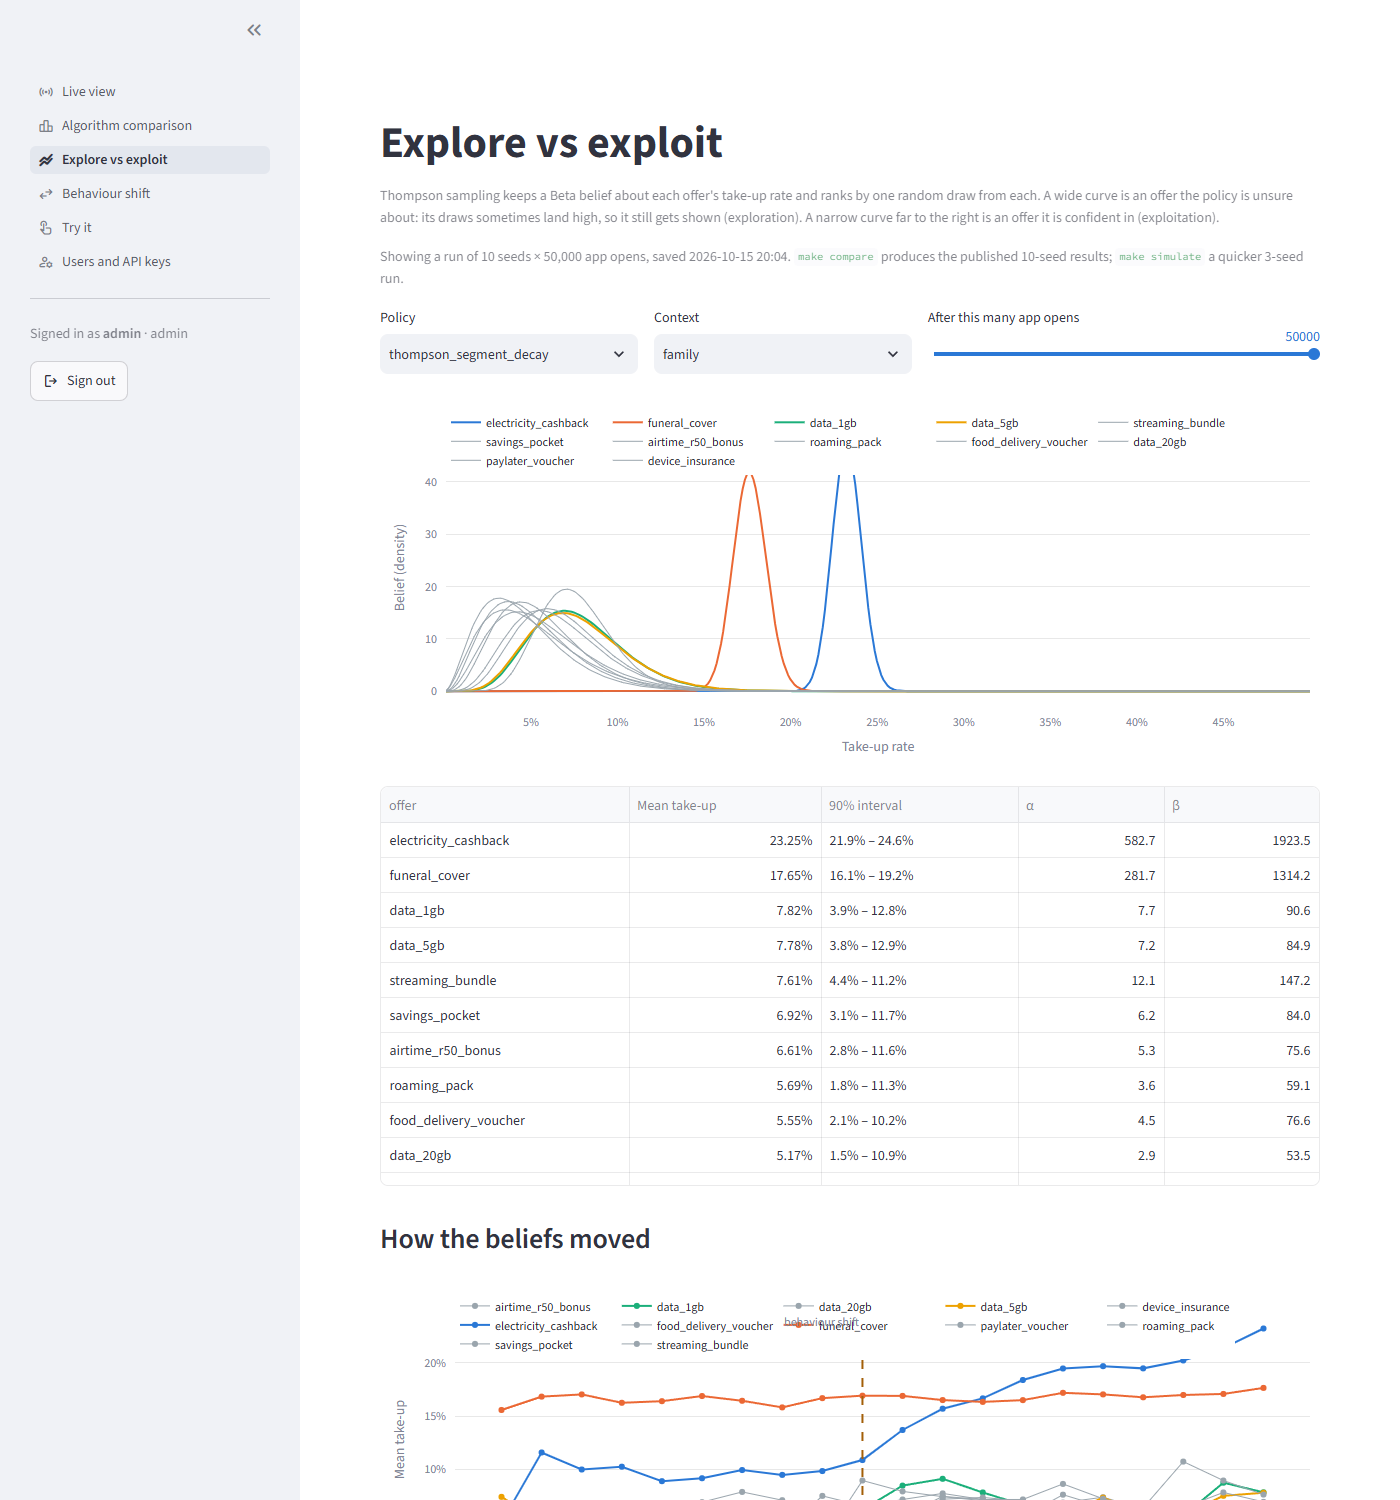
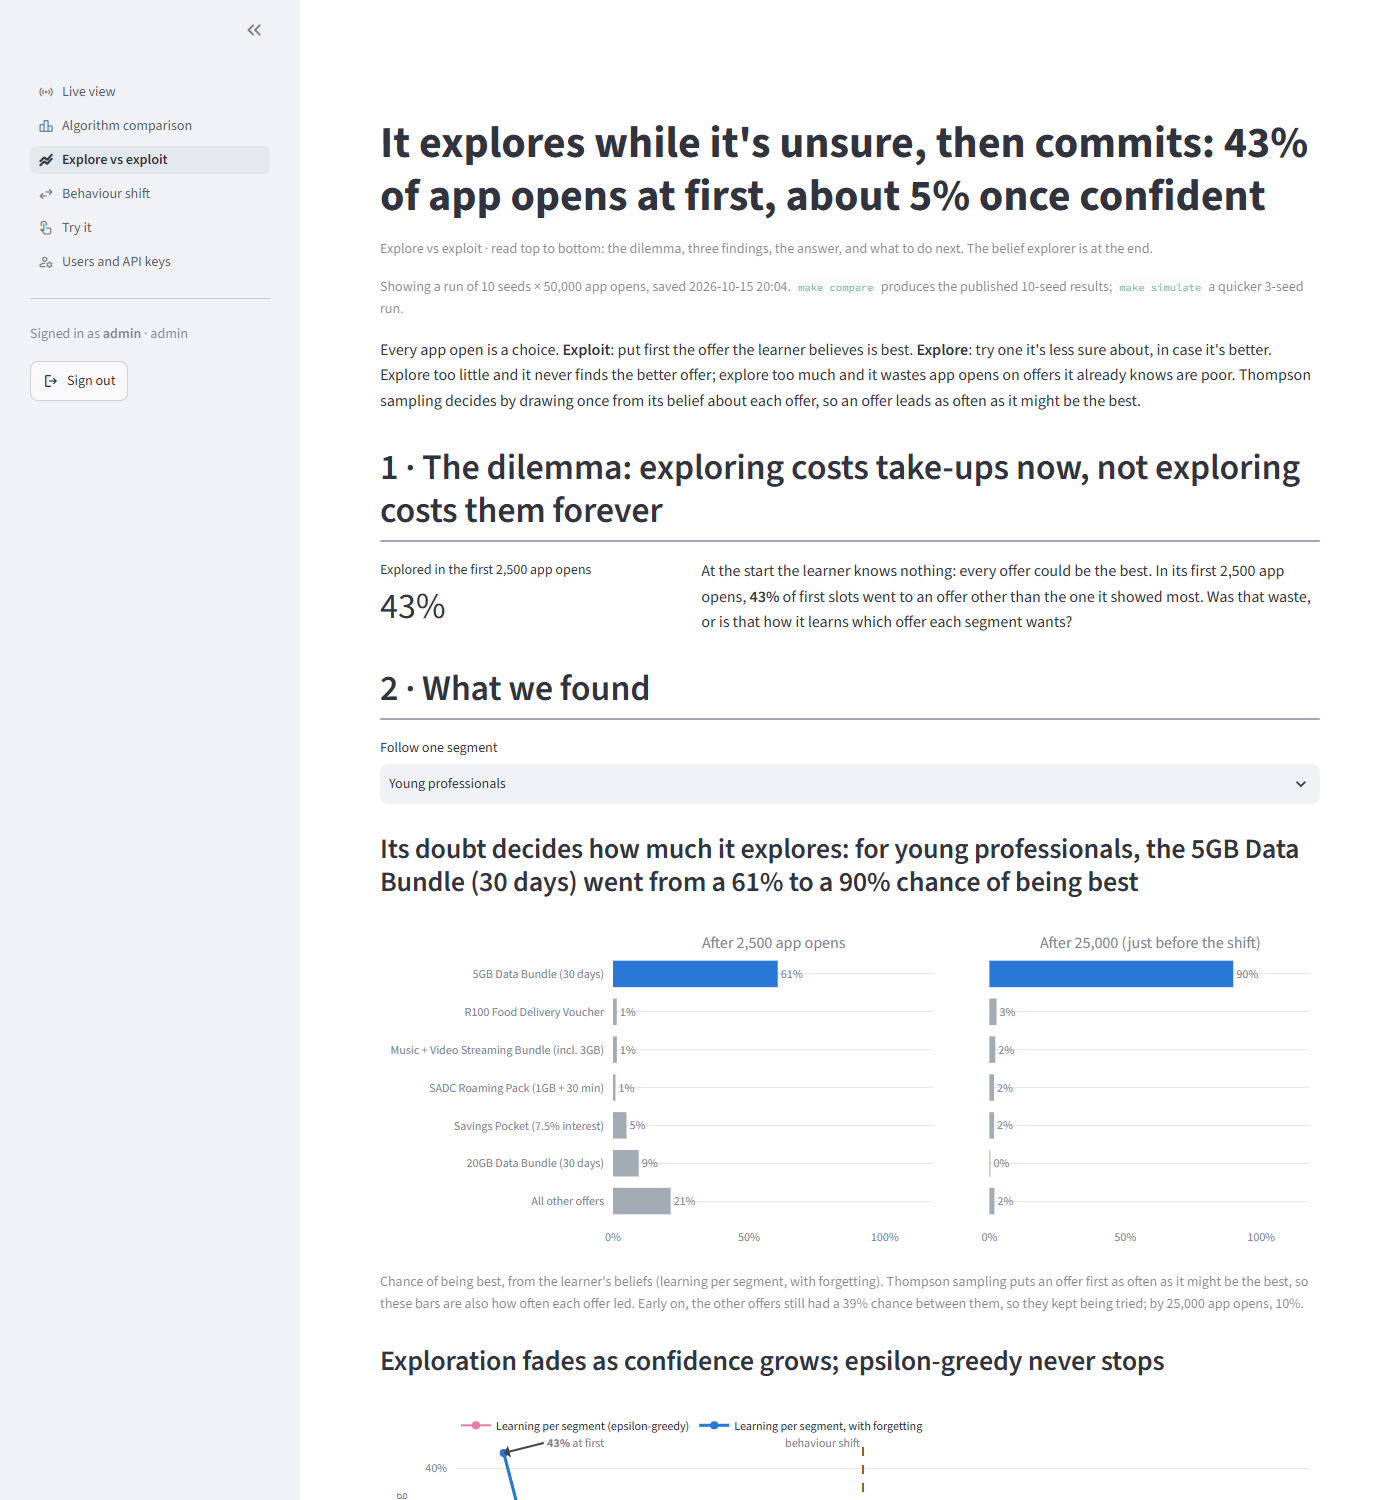
docs: Explore vs exploit and Behaviour shift stories; fresh screenshots

diff --git a/docs/dashboard.html b/docs/dashboard.html
@@ -98,14 +98,26 @@ make dashboard   # http://localhost:8501</code></pre>
 
 <section aria-labelledby="beliefs">
   <h2 id="beliefs">Explore vs exploit</h2>
-  <p>Each offer's Beta belief for a chosen policy and context at any point in the run, and how the means moved. Wide curves are offers the policy is still testing; a narrow curve far to the right is one it trusts.</p>
-  <figure class="fig"><img src="assets/screenshots/beliefs.png" alt="Explore vs exploit: Beta density curves per offer for families, with electricity and funeral cover narrow and far right, other offers wide and low." loading="lazy"><figcaption><span>Reads results/comparison_snapshots.parquet (beliefs every 2,500 app opens).</span></figcaption></figure>
+  <p>The same storytelling arc. Headline: it explores while it's unsure, then commits (43% of app opens at first, about 5% once confident). The hook is the dilemma: exploring costs take-ups now, not exploring costs them forever. Three findings follow:</p>
+  <ol>
+    <li><strong>Its doubt decides how much it explores.</strong> The chance each offer is the best, after 2,500 app opens and just before the shift, for a segment you pick. Thompson sampling shows an offer first exactly that often, so the bars are also how much it explores.</li>
+    <li><strong>Exploration fades as confidence grows; epsilon-greedy never stops.</strong> The share of app opens spent away from each segment's usual first offer, per 2,500 app opens.</li>
+    <li><strong>Forgetting keeps just enough doubt to notice a change.</strong> The responses behind the beliefs level off near 5,000 with forgetting and pile up past 25,000 without.</li>
+  </ol>
+  <p>Then the answer (Thompson against epsilon-greedy on the same segments, counted by run) and next steps. The Beta density curves, the table and how the beliefs moved, for any policy, context and point in the run, sit in an expander. The numbers come from <code>recommender.evaluation.exploration</code>.</p>
+  <figure class="fig"><img src="assets/screenshots/beliefs.png" alt="Explore vs exploit as a story: the headline, the dilemma with 43 percent explored in the first 2,500 app opens, and the first finding's chance-of-being-best bars for young professionals." loading="lazy"><figcaption><span>Reads results/: comparison_snapshots.parquet (beliefs every 2,500 app opens), comparison_rounds.parquet, comparison.csv, comparison_by_seed.csv.</span></figcaption></figure>
 </section>
 
 <section aria-labelledby="shift">
   <h2 id="shift">Behaviour shift</h2>
-  <p>For young professionals and families, the share of app opens with the new favourite ranked first, take-up per app open, how many app opens each policy needed to adapt, and which offer led over time.</p>
-  <figure class="fig"><img src="assets/screenshots/shift.png" alt="Behaviour shift: share of young-professional app opens with the streaming bundle first; the policy with forgetting jumps to 100 percent about 4,000 app opens before the one without." loading="lazy"><figcaption><span>Reads results/: comparison_rounds.parquet and convergence.csv; the new favourites come from the simulator.</span></figcaption></figure>
+  <p>The same arc. Headline: when customers changed, the learner followed, losing 87% fewer take-ups than the fixed ranking after the change. The hook is the change itself for a segment you pick (young professionals' favourite went from the 5GB data bundle to the streaming bundle) and how often the fixed ranking showed the new favourite first: never. Three findings follow:</p>
+  <ol>
+    <li><strong>The learner switched within 1,460 app opens; without forgetting, 5,601.</strong> For families: 7,980, and without forgetting not within the run.</li>
+    <li><strong>Take-ups followed.</strong> Young professionals went from 177 to 309 take-ups per 1,000 app opens with the learner; the fixed ranking stayed at 85&ndash;86.</li>
+    <li><strong>Forgetting is why:</strong> it cost 93 take-ups before the change and saved 130 after, counted by run.</li>
+  </ol>
+  <p>Then the answer and next steps. The rolling charts for any set of policies and window, and which offer led over time, sit in an expander. The numbers come from <code>recommender.evaluation.adaptation</code>; the favourites before and after come from the simulator's ground truth.</p>
+  <figure class="fig"><img src="assets/screenshots/shift.png" alt="Behaviour shift as a story: the headline, the change from the 5GB data bundle to the streaming bundle for young professionals, and the start of the first finding's chart." loading="lazy"><figcaption><span>Reads results/: comparison_rounds.parquet, convergence.csv, comparison.csv, comparison_by_seed.csv; the favourites come from the simulator.</span></figcaption></figure>
 </section>
 
 <section aria-labelledby="try">
@@ -129,8 +141,8 @@ make dashboard   # http://localhost:8501</code></pre>
       <tbody>
         <tr><td>Live view</td><td>Event log and options store in the database</td><td>Every 3 seconds</td></tr>
         <tr><td>Algorithm comparison</td><td><code>results/comparison.csv</code>, <code>comparison_by_seed.csv</code>, <code>comparison_rounds.parquet</code>, <code>convergence.csv</code></td><td>When a new run is saved</td></tr>
-        <tr><td>Explore vs exploit</td><td><code>results/comparison_snapshots.parquet</code></td><td>When a new run is saved</td></tr>
-        <tr><td>Behaviour shift</td><td><code>results/comparison_rounds.parquet</code>, <code>convergence.csv</code></td><td>When a new run is saved</td></tr>
+        <tr><td>Explore vs exploit</td><td><code>results/comparison_snapshots.parquet</code>, <code>comparison_rounds.parquet</code>, <code>comparison.csv</code>, <code>comparison_by_seed.csv</code></td><td>When a new run is saved</td></tr>
+        <tr><td>Behaviour shift</td><td><code>results/comparison_rounds.parquet</code>, <code>convergence.csv</code>, <code>comparison.csv</code>, <code>comparison_by_seed.csv</code></td><td>When a new run is saved</td></tr>
         <tr><td>Try it</td><td>The API</td><td>Live</td></tr>
         <tr><td>Users and API keys</td><td>The users and api_keys tables</td><td>Live</td></tr>
       </tbody>

diff --git a/docs/decisions.html b/docs/decisions.html
@@ -346,6 +346,7 @@
 <tr><td>E8</td><td>One fixed colour per policy on every chart (the docs' categorical palette, in order; a ninth policy is grey), and the shift marked on every time chart.</td><td>Colour follows the policy, never its rank or the chart, so a reader can follow a policy across pages.</td></tr>
 <tr><td>E9</td><td>Screenshots come from <code>make screenshots</code> (Playwright driving the installed Chrome or Edge). It signs in with an admin account and moves between pages through the sidebar, because a sign-in lasts for one browser session.</td><td>Reproducible images for the README and docs without a browser download.</td></tr>
 <tr><td>E10</td><td><strong>The comparison page tells a story</strong> (Brent Dykes' data storytelling arc). The headline is the finding. The setting and hook show what was possible against what a fixed ranking gets. Three findings follow, one chart and one message each, with colour only on what the message is about. Then the answer in one sentence, and next steps. Plain names replace policy ids. The full tables are folded away at the end.</td><td>A reader who sees the page once should leave with the message, not a table to decode. All the numbers come from <code>recommender.evaluation.story</code>, which computes them from the run on disk, counts how many runs back each claim, and says when the top policies tie, so the story can't overstate the evidence.</td></tr>
+<tr><td>E11</td><td><strong>Explore vs exploit and Behaviour shift tell stories too,</strong> with the same arc and rules: a headline that is the finding, one chart and one message per finding, colour only on the message, offers and policies by name, and the detail in an expander. Exploration is measured as the share of each segment's app opens whose first offer wasn't the one the policy showed first most often in that period of 2,500 app opens. The chance of being best comes from the learner's own Beta beliefs.</td><td>Thompson sampling shows an offer first as often as it might be the best, so the chance of being best is how much it explores, offer by offer. The exploration share needs no ground truth. In the period right after the shift it also counts switching, because the old and new favourites share that period, and the page says so rather than calling it all exploration. The numbers come from <code>recommender.evaluation.exploration</code> and <code>recommender.evaluation.adaptation</code>.</td></tr>
 </tbody></table></div>
 <h3 id="log-phase-6-quality-and-delivery">Phase 6: Quality and delivery</h3>
 <div class="table-wrap"><table class="decision-log">

diff --git a/DECISIONS.md b/DECISIONS.md
@@ -100,6 +100,7 @@ Ambiguities in the brief, the default I picked, and why. Newest at the bottom of
 | E8 | One fixed colour per policy on every chart (the docs' categorical palette, in order; a ninth policy is grey), and the shift marked on every time chart. | Colour follows the policy, never its rank or the chart, so a reader can follow a policy across pages. |
 | E9 | Screenshots come from `make screenshots` (Playwright driving the installed Chrome or Edge). It signs in with an admin account and moves between pages through the sidebar, because a sign-in lasts for one browser session. | Reproducible images for the README and docs without a browser download. |
 | E10 | **The comparison page tells a story** (Brent Dykes' data storytelling arc). The headline is the finding. The setting and hook show what was possible against what a fixed ranking gets. Three findings follow, one chart and one message each, with colour only on what the message is about. Then the answer in one sentence, and next steps. Plain names replace policy ids. The full tables are folded away at the end. | A reader who sees the page once should leave with the message, not a table to decode. All the numbers come from `recommender.evaluation.story`, which computes them from the run on disk, counts how many runs back each claim, and says when the top policies tie, so the story can't overstate the evidence. |
+| E11 | **Explore vs exploit and Behaviour shift tell stories too,** with the same arc and rules: a headline that is the finding, one chart and one message per finding, colour only on the message, offers and policies by name, and the detail in an expander. Exploration is measured as the share of each segment's app opens whose first offer wasn't the one the policy showed first most often in that period of 2,500 app opens. The chance of being best comes from the learner's own Beta beliefs. | Thompson sampling shows an offer first as often as it might be the best, so the chance of being best is how much it explores, offer by offer. The exploration share needs no ground truth. In the period right after the shift it also counts switching, because the old and new favourites share that period, and the page says so rather than calling it all exploration. The numbers come from `recommender.evaluation.exploration` and `recommender.evaluation.adaptation`. |
 
 ## Phase 6: Quality and delivery
 

diff --git a/README.md b/README.md
@@ -145,8 +145,8 @@ Other endpoints: `GET /offers`, `GET /customers?segment=student`, `GET /policies
 |---|---|
 | Live view | App opens and outcomes as they arrive, and the serving policy's current top offers per segment |
 | Algorithm comparison | The findings as a data story: what a fixed ranking leaves on the table, three findings with one chart each, the answer and next steps; the full results underneath |
-| Explore vs exploit | The Beta belief behind every offer at any point in a run |
-| Behaviour shift | How quickly each policy noticed the new favourites after the shift |
+| Explore vs exploit | The story of exploration: how much the learner explores while unsure, how that fades, and why forgetting keeps a little doubt; the Beta beliefs underneath |
+| Behaviour shift | The story of the change: how fast the learner switched to the new favourites, how take-ups followed, and what forgetting costs and saves |
 | Try it (admins) | Play a customer: open the app, take up or ignore offers, and watch the belief move |
 | Users and API keys (admins) | Add users, change passwords, create and revoke API keys |
 
